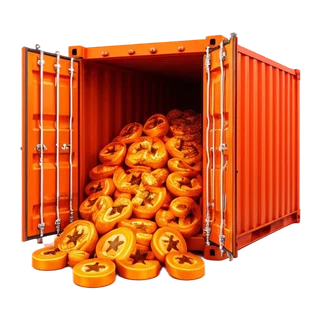
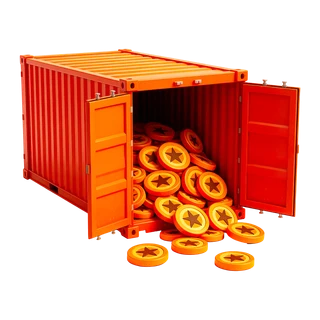
Stake coins without the flip-in; cleaner van and container; highlight hover card
The coin picture no longer flips in when it appears: it behaves like the
skin and the target card (morph, float). The van and the sea container
are redrawn one by one so their coins are clean (no melted shapes), then
graded to the sheet's colours. Hovering the feed's highlight shows the
same card as a drop in the strip: who, which case, the multiplier, the
price.

diff --git a/app/components/layout/LiveFeed.vue b/app/components/layout/LiveFeed.vue
@@ -5,7 +5,8 @@ import type { FeedDrop } from '#shared/types/api'
  * Live drops strip under the header.
  *   Live — newest first. Top — the biggest multipliers (drop price / what was paid), not the priciest skins.
  *   Highlight — the best multiplier right now, burning (Forge) with its "x".
- *   Hover (desktop) — the strip freezes; a card shows who, which case, for how much; click opens the case.
+ *   Hover (desktop) — the strip freezes; a card shows who, which case, for how much; click opens the case. The
+ *   highlight shows the same card.
  *   Phones — sticks under the header, slides away while scrolling down and comes back on the way up.
  */
 const { feed } = useLiveFeed()
@@ -94,6 +95,8 @@ watch(y, (v) => {
       :to="linkOf(feed.highlight)"
       class="kd-press relative flex h-13 w-30 shrink-0 items-center gap-1 overflow-hidden rounded-xl pr-2 pl-0.5 lg:h-18 lg:w-62.5 lg:gap-2.5 lg:pr-3 lg:pl-1"
       :style="{ background: `linear-gradient(90deg, color-mix(in srgb, ${RARITY_COLOR[feed.highlight.rarity]} 22%, var(--color-neutral-4)), var(--color-neutral-4) 75%)` }"
+      @mouseenter="show(feed.highlight, $event)"
+      @mouseleave="hover = null"
     >
       <ItemArt :image="feed.highlight.image" :rarity="feed.highlight.rarity" :size="44" class="w-12 shrink-0 lg:w-18" />
       <div class="relative z-[2] flex min-w-0 flex-1 flex-col gap-0.5 lg:gap-1">

diff --git a/app/components/upgrade/Stake.vue b/app/components/upgrade/Stake.vue
@@ -97,7 +97,7 @@ function removePiece(p: Piece) {
             <div :key="single.key" class="absolute inset-0">
               <div class="kd-single-art absolute inset-0 grid place-items-center" :data-key="single.key">
                 <ItemArt v-if="single.kind === 'skin'" float :image="single.item.image" :rarity="single.item.rarity" :size="isLg ? 150 : 120" class="kd-morph w-[260px]" />
-                <UiCoinStack v-else :size="isLg ? 96 : 76" :amount="coins" class="kd-morph kd-coin-big" />
+                <UiCoinStack v-else :size="isLg ? 96 : 76" :amount="coins" class="kd-morph" />
               </div>
               <div class="absolute inset-x-0 top-0 flex items-start justify-between p-4">
                 <div v-if="single.kind === 'skin'" class="flex min-w-0 flex-col gap-1">
@@ -251,16 +251,6 @@ function removePiece(p: Piece) {
     transform: translate(-50%, -50%);
   }
 }
-.kd-coin-big {
-  animation: kd-coin-big 700ms var(--ease-spring) both;
-}
-@keyframes kd-coin-big {
-  from {
-    transform: rotateY(-180deg) scale(0.6);
-    opacity: 0;
-  }
-}
-
 /* Slots: empty ones show a faint gun; the next free one a quiet + (only while idle) */
 .kd-slot.is-next {
   color: var(--color-neutral-11);
